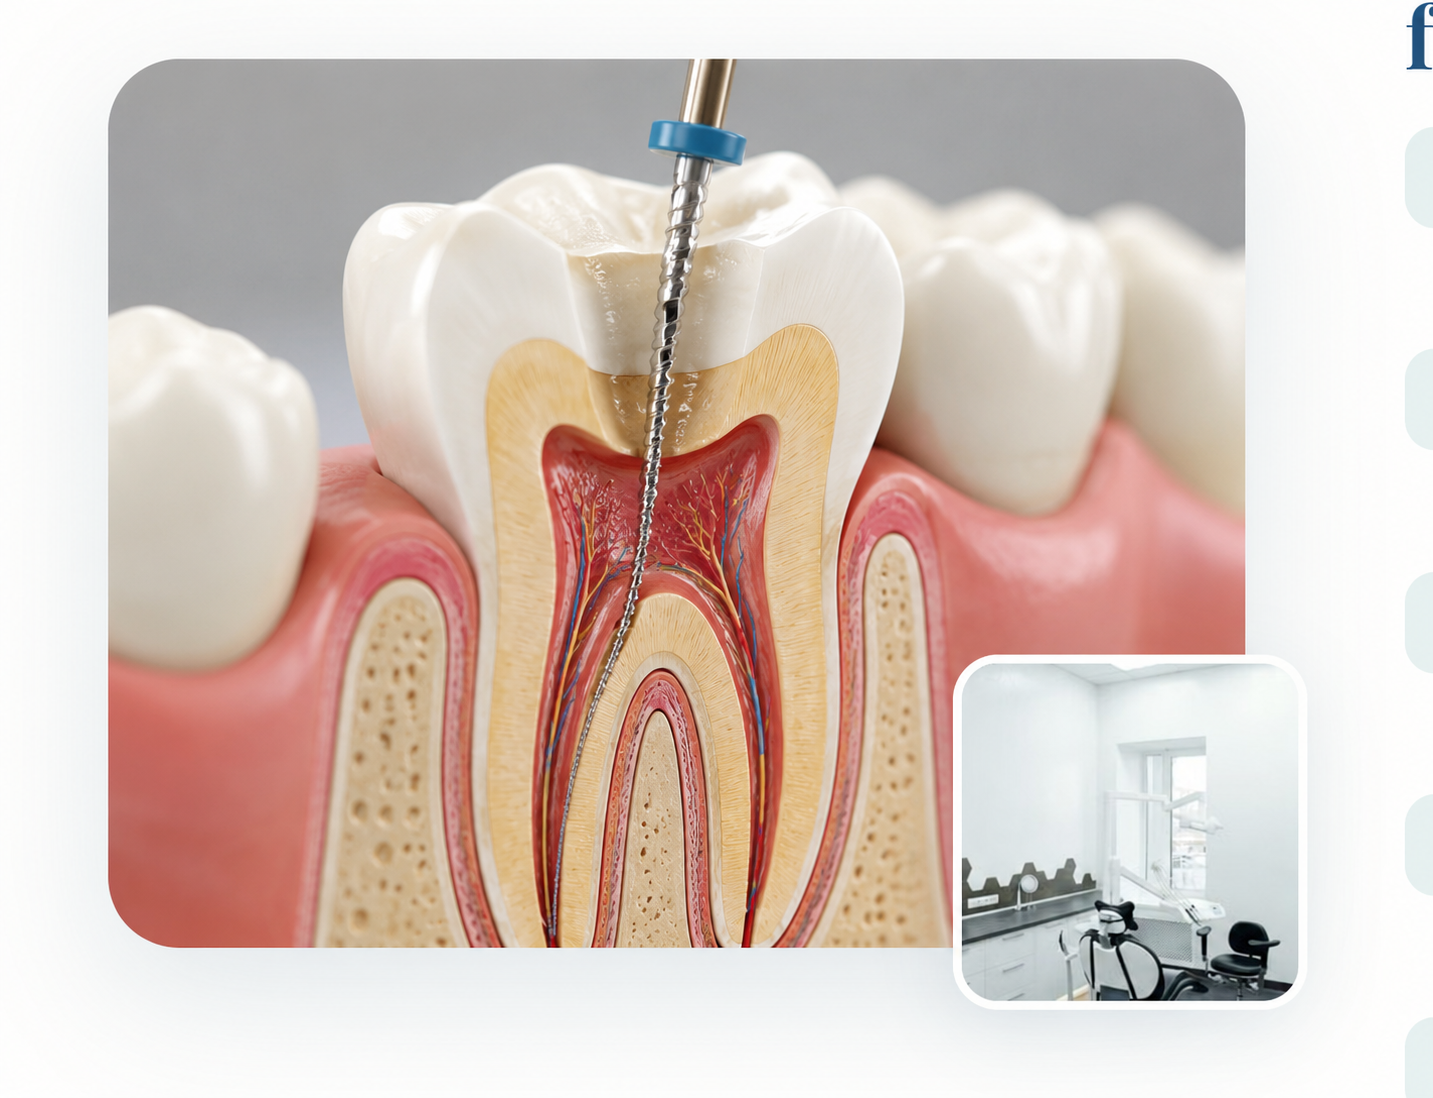
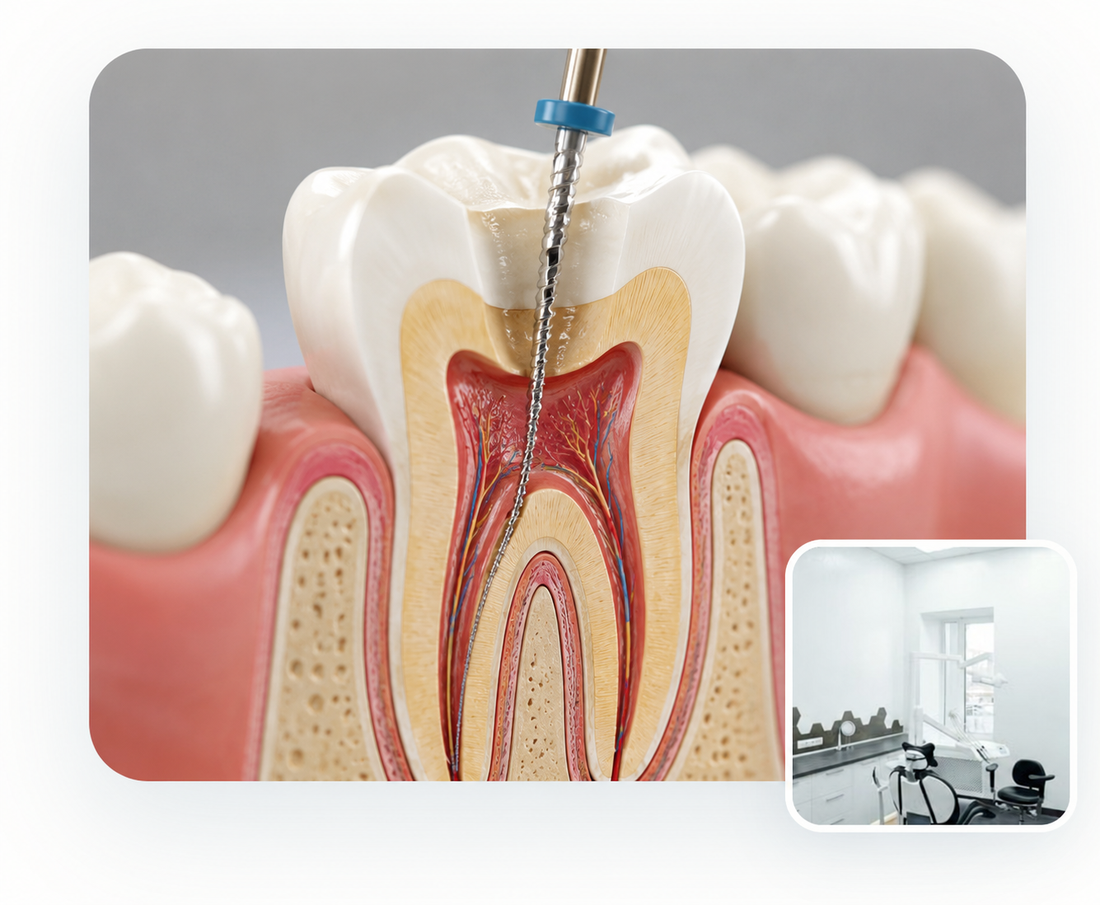
fix(root-canal): crop Root canal.png to remove baked-in right-edge artifacts

diff --git a/CLAUDE.md b/CLAUDE.md
@@ -75,6 +75,8 @@ Added a **patient video testimonial carousel** to `frontend/public/root-canal.ht
 
 - **2026-07-11:** Replaced the hand-built inline **SVG tooth-anatomy diagram** in the "Inside Your Tooth" card with a raster image **`/gallery/Inside our tooth.png`** (referenced URL-encoded as `Inside%20our%20tooth.png`). Styled via `.anatomy-svg img`. The old SVG is gone from `root-canal.html` (recoverable from git history if ever needed).
 
+- **2026-07-11:** In the "Why Patients Choose Dazzle" section, the main image is now **`/gallery/Root canal.png`** (self-hosted, replaced a hot-linked Pexels URL). NOTE: this PNG has a **clinic-room inset composited into the image itself** (bottom-right) — do NOT re-add an HTML `.why-img-accent` inset or you'll get a duplicate (that bug happened and was removed). The PNG was also cropped to strip baked-in AI junk (stray "ff" text + a teal pill column on the right edge). The old `.why-img-accent` CSS rules remain but are now unused/dead.
+
 ## 6. Gotchas for future sessions
 
 - **Live site = `frontend/` (React homepage) + `frontend/public/*.html` (static service pages). `dazzle-next/` is NOT deployed.** Make changes in `frontend/`.
